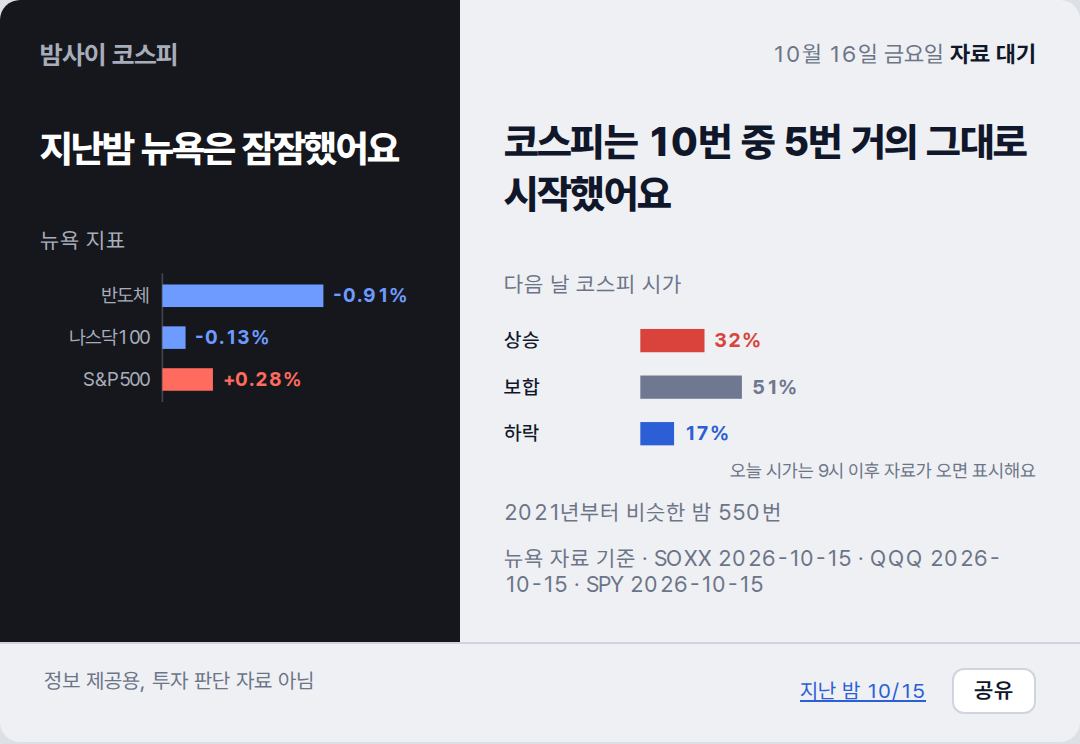
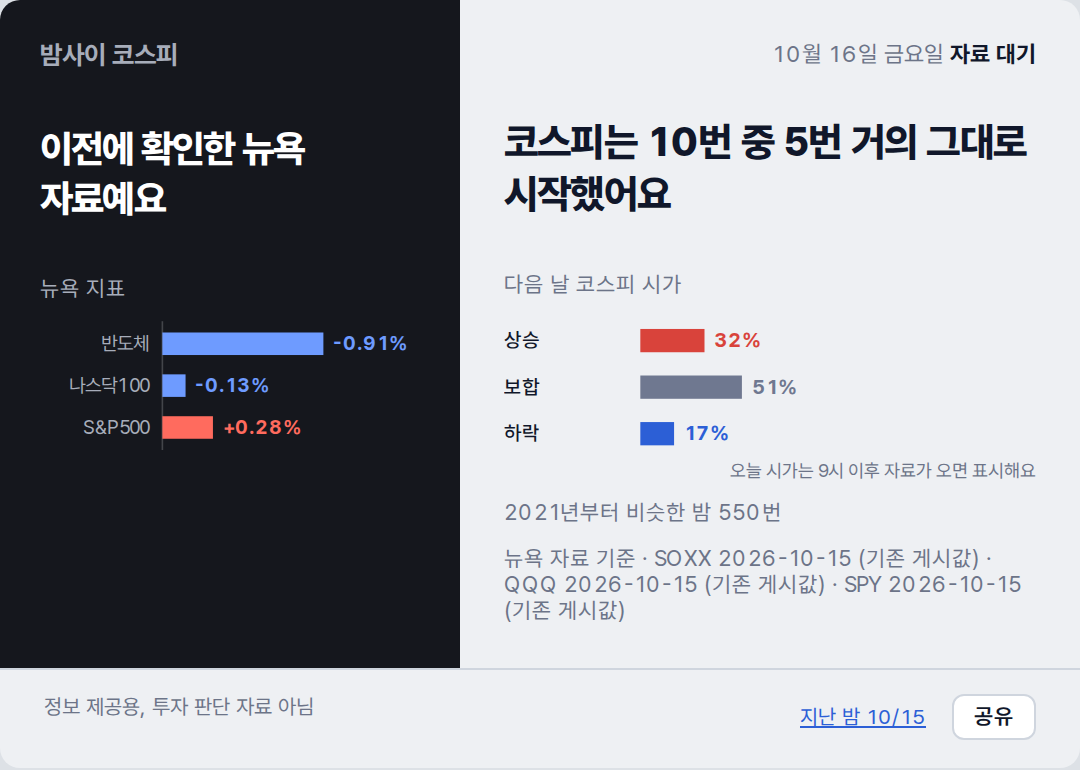
deploy: cc11a5fa74991076ea8459826e026ffd39bffa02

diff --git a/2026-10-16/index.html b/2026-10-16/index.html
@@ -2,7 +2,7 @@
 <title>밤사이 코스피 · 2026-10-16</title>
 <meta name="description" content="전일 코스피 마감에서 밤사이 뉴욕을 거쳐 오늘 코스피 시가까지, 한 장.">
 <meta property="og:type" content="article"><meta property="og:site_name" content="밤사이 코스피"><meta property="og:url" content="https://mjs0611.github.io/kospi-relay/2026-10-16/">
-<meta property="og:title" content="지난밤 뉴욕은 잠잠했어요"><meta property="og:description" content="코스피는 10번 중 5번 거의 그대로 시작했어요">
+<meta property="og:title" content="이전에 확인한 뉴욕 자료예요"><meta property="og:description" content="코스피는 10번 중 5번 거의 그대로 시작했어요">
 <meta property="og:image" content="https://mjs0611.github.io/kospi-relay/2026-10-16/relay.png"><meta property="og:image:width" content="1080"><meta name="twitter:card" content="summary_large_image">
 <link rel="stylesheet" href="https://cdn.jsdelivr.net/gh/orioncactus/pretendard@v1.3.9/dist/web/variable/pretendardvariable-dynamic-subset.min.css">
 <style>
@@ -26,7 +26,7 @@ footer a{color:#2C5FD6}
 .share{margin-left:10px;border:1px solid #CFD5DE;background:#FFF;color:#10172A;border-radius:6px;padding:4px 10px;font:600 11px var(--sans);cursor:pointer}
 @media (max-width:480px){.sheet{grid-template-columns:1fr}.cond{margin-top:18px}.claim{margin-top:4px}}
 </style></head><body><div class="sheet">
-<section class="night"><p class="brand">밤사이 코스피</p><p class="cond">지난밤 뉴욕은 잠잠했어요</p><p class="lab">뉴욕 지표</p><svg viewBox="0 0 236 84" xmlns="http://www.w3.org/2000/svg" font-family="var(--sans)" font-size="12">
+<section class="night"><p class="brand">밤사이 코스피</p><p class="cond">이전에 확인한 뉴욕 자료예요</p><p class="lab">뉴욕 지표</p><svg viewBox="0 0 236 84" xmlns="http://www.w3.org/2000/svg" font-family="var(--sans)" font-size="12">
 <line x1="76" y1="2" x2="76" y2="82" stroke="var(--rule)" stroke-width="1"/>
 <text x="68" y="20" text-anchor="end" fill="var(--muted)">반도체</text>
 <rect x="76" y="9" width="100.0" height="14" fill="var(--down)"/>
@@ -49,12 +49,12 @@ footer a{color:#2C5FD6}
 <rect x="82" y="65" width="20.3" height="14" fill="var(--down)"/>
 <text x="108.3" y="76" fill="var(--down)" font-weight="700">17%</text>
 <text x="320" y="98" text-anchor="end" fill="var(--muted)" font-size="11">오늘 시가는 9시 이후 자료가 오면 표시해요</text>
-</svg><p class="cap">2021년부터 비슷한 밤 550번</p><p class="cap">뉴욕 자료 기준 · SOXX 2026-10-15 · QQQ 2026-10-15 · SPY 2026-10-15</p></section>
+</svg><p class="cap">2021년부터 비슷한 밤 550번</p><p class="cap">뉴욕 자료 기준 · SOXX 2026-10-15 (기존 게시값) · QQQ 2026-10-15 (기존 게시값) · SPY 2026-10-15 (기존 게시값)</p></section>
 <footer><span>정보 제공용, 투자 판단 자료 아님</span><span style="white-space:nowrap"><a href="../2026-10-15/">지난 밤 10/15</a> <button class="share" type="button">공유</button></span></footer>
 <script>
 /* 공유: Web Share가 있으면 시스템 공유 시트, 없으면 링크 복사. 링크는 이 날짜 페이지(OG 카드 붙음) */
 document.querySelector('.share').addEventListener('click', async function () {
-  var url = 'https://mjs0611.github.io/kospi-relay/2026-10-16/', text = "지난밤 뉴욕은 잠잠했어요. 코스피는 10번 중 5번 거의 그대로 시작했어요";
+  var url = 'https://mjs0611.github.io/kospi-relay/2026-10-16/', text = "이전에 확인한 뉴욕 자료예요. 코스피는 10번 중 5번 거의 그대로 시작했어요";
   try { if (navigator.share) { await navigator.share({ title: '밤사이 코스피', text: text, url: url }); return; } } catch (e) { if (e && e.name === 'AbortError') return; }
   try { await navigator.clipboard.writeText(text + '\n' + url); this.textContent = '링크 복사됨'; } catch (e) { location.href = url; }
 });

diff --git a/index.html b/index.html
@@ -2,7 +2,7 @@
 <title>밤사이 코스피 · 2026-10-16</title>
 <meta name="description" content="전일 코스피 마감에서 밤사이 뉴욕을 거쳐 오늘 코스피 시가까지, 한 장.">
 <meta property="og:type" content="article"><meta property="og:site_name" content="밤사이 코스피"><meta property="og:url" content="https://mjs0611.github.io/kospi-relay/2026-10-16/">
-<meta property="og:title" content="지난밤 뉴욕은 잠잠했어요"><meta property="og:description" content="코스피는 10번 중 5번 거의 그대로 시작했어요">
+<meta property="og:title" content="이전에 확인한 뉴욕 자료예요"><meta property="og:description" content="코스피는 10번 중 5번 거의 그대로 시작했어요">
 <meta property="og:image" content="https://mjs0611.github.io/kospi-relay/2026-10-16/relay.png"><meta property="og:image:width" content="1080"><meta name="twitter:card" content="summary_large_image">
 <link rel="stylesheet" href="https://cdn.jsdelivr.net/gh/orioncactus/pretendard@v1.3.9/dist/web/variable/pretendardvariable-dynamic-subset.min.css">
 <style>
@@ -26,7 +26,7 @@ footer a{color:#2C5FD6}
 .share{margin-left:10px;border:1px solid #CFD5DE;background:#FFF;color:#10172A;border-radius:6px;padding:4px 10px;font:600 11px var(--sans);cursor:pointer}
 @media (max-width:480px){.sheet{grid-template-columns:1fr}.cond{margin-top:18px}.claim{margin-top:4px}}
 </style></head><body><div class="sheet">
-<section class="night"><p class="brand">밤사이 코스피</p><p class="cond">지난밤 뉴욕은 잠잠했어요</p><p class="lab">뉴욕 지표</p><svg viewBox="0 0 236 84" xmlns="http://www.w3.org/2000/svg" font-family="var(--sans)" font-size="12">
+<section class="night"><p class="brand">밤사이 코스피</p><p class="cond">이전에 확인한 뉴욕 자료예요</p><p class="lab">뉴욕 지표</p><svg viewBox="0 0 236 84" xmlns="http://www.w3.org/2000/svg" font-family="var(--sans)" font-size="12">
 <line x1="76" y1="2" x2="76" y2="82" stroke="var(--rule)" stroke-width="1"/>
 <text x="68" y="20" text-anchor="end" fill="var(--muted)">반도체</text>
 <rect x="76" y="9" width="100.0" height="14" fill="var(--down)"/>
@@ -49,12 +49,12 @@ footer a{color:#2C5FD6}
 <rect x="82" y="65" width="20.3" height="14" fill="var(--down)"/>
 <text x="108.3" y="76" fill="var(--down)" font-weight="700">17%</text>
 <text x="320" y="98" text-anchor="end" fill="var(--muted)" font-size="11">오늘 시가는 9시 이후 자료가 오면 표시해요</text>
-</svg><p class="cap">2021년부터 비슷한 밤 550번</p><p class="cap">뉴욕 자료 기준 · SOXX 2026-10-15 · QQQ 2026-10-15 · SPY 2026-10-15</p></section>
+</svg><p class="cap">2021년부터 비슷한 밤 550번</p><p class="cap">뉴욕 자료 기준 · SOXX 2026-10-15 (기존 게시값) · QQQ 2026-10-15 (기존 게시값) · SPY 2026-10-15 (기존 게시값)</p></section>
 <footer><span>정보 제공용, 투자 판단 자료 아님</span><span style="white-space:nowrap"><a href="./2026-10-15/">지난 밤 10/15</a> <button class="share" type="button">공유</button></span></footer>
 <script>
 /* 공유: Web Share가 있으면 시스템 공유 시트, 없으면 링크 복사. 링크는 이 날짜 페이지(OG 카드 붙음) */
 document.querySelector('.share').addEventListener('click', async function () {
-  var url = 'https://mjs0611.github.io/kospi-relay/2026-10-16/', text = "지난밤 뉴욕은 잠잠했어요. 코스피는 10번 중 5번 거의 그대로 시작했어요";
+  var url = 'https://mjs0611.github.io/kospi-relay/2026-10-16/', text = "이전에 확인한 뉴욕 자료예요. 코스피는 10번 중 5번 거의 그대로 시작했어요";
   try { if (navigator.share) { await navigator.share({ title: '밤사이 코스피', text: text, url: url }); return; } } catch (e) { if (e && e.name === 'AbortError') return; }
   try { await navigator.clipboard.writeText(text + '\n' + url); this.textContent = '링크 복사됨'; } catch (e) { location.href = url; }
 });
